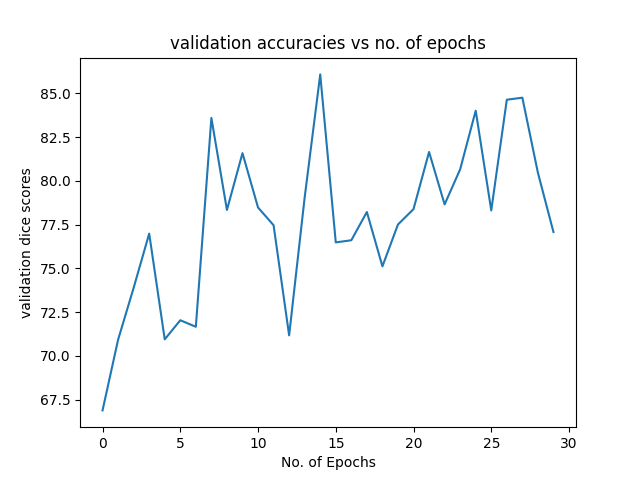
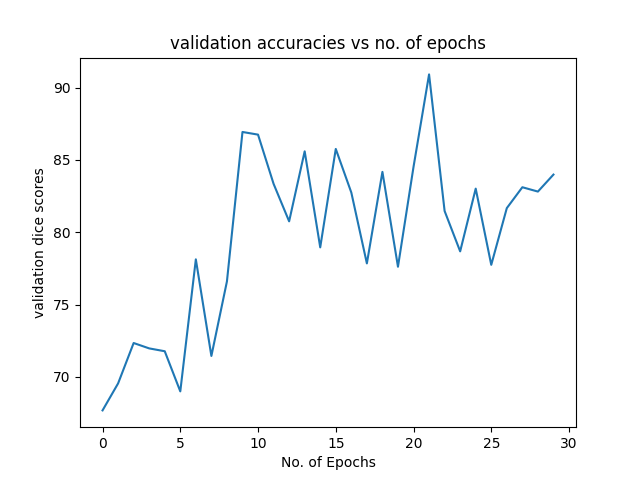
added attention unet

diff --git a/model.py b/model.py
@@ -25,6 +25,37 @@ class DoubleConv(nn.Module):
         return self.conv(x)
 
 
+
+class Attention_block(nn.Module):
+    def __init__(self,F_g,F_l,F_int):
+        super(Attention_block,self).__init__()
+        self.W_g = nn.Sequential(
+            nn.Conv2d(F_g, F_int, kernel_size=1,stride=1,padding=0,bias=True),
+            nn.BatchNorm2d(F_int)
+            )
+        
+        self.W_x = nn.Sequential(
+            nn.Conv2d(F_l, F_int, kernel_size=1,stride=1,padding=0,bias=True),
+            nn.BatchNorm2d(F_int)
+        )
+
+        self.psi = nn.Sequential(
+            nn.Conv2d(F_int, 1, kernel_size=1,stride=1,padding=0,bias=True),
+            nn.BatchNorm2d(1),
+            nn.Sigmoid()
+        )
+        
+        self.relu = nn.ReLU(inplace=True)
+        
+    def forward(self,g,x):
+        g1 = self.W_g(g)
+        x1 = self.W_x(x)
+        psi = self.relu(g1+x1)
+        psi = self.psi(psi)
+
+        return x*psi
+
+
 class UNET(nn.Module):
     def __init__(
             self, in_channels=3, out_channels=1, features=[64, 128, 256, 512],
@@ -44,11 +75,14 @@ class UNET(nn.Module):
 
         # Up part of UNET
         for feature in reversed(features):
+            ### up convolution
             self.ups.append(
                 nn.ConvTranspose2d(
                     feature*2, feature, kernel_size=2, stride=2,
                 )
             )
+
+            ### double convolution
             self.ups.append(DoubleConv(feature*2, feature))
 
         self.bottleneck = DoubleConv(features[-1], features[-1]*2)
@@ -75,11 +109,83 @@ class UNET(nn.Module):
             if x.shape != skip_connection.shape:
                 x = TF.resize(x, size=skip_connection.shape[2:])
 
+
             #concatenating the skip connections with x
             concat_skip = torch.cat((skip_connection, x), dim=1)
 
             #passing the concatenated ouptut, to the double convolutional layers
             x = self.ups[idx+1](concat_skip)
+
+        return self.final_conv(x)
+
+
+class Attention_UNET(nn.Module):
+    def __init__(
+            self, in_channels=3, out_channels=1, features=[64, 128, 256, 512],
+    ):
+        super(UNET, self).__init__()
+        #module list for encoder layers
+        self.downs = nn.ModuleList()
+        #max pooling
+        self.pool = nn.MaxPool2d(kernel_size=2, stride=2)
+        #module list for the decoder layers
+        self.ups = nn.ModuleList()
+
+        # Down part of UNET
+        for feature in features:
+            self.downs.append(DoubleConv(in_channels, feature))
+            in_channels = feature
+
+        # Up part of UNET
+        for feature in reversed(features):
+            ### up convolution
+            self.ups.append(
+                nn.ConvTranspose2d(
+                    feature*2, feature, kernel_size=2, stride=2,
+                )
+            )
+
+            ### attention module
+            self.ups.append(
+                Attention_block(F_g=feature, F_l=feature, F_int=feature//2)
+            )
+
+            ### double convolution
+            self.ups.append(DoubleConv(feature*2, feature))
+
+        self.bottleneck = DoubleConv(features[-1], features[-1]*2)
+        self.final_conv = nn.Conv2d(features[0], out_channels, kernel_size=1)
+
+    def forward(self, x):
+        skip_connections = []
+
+        for down in self.downs:
+            x = down(x)
+            skip_connections.append(x)
+            x = self.pool(x)
+
+        x = self.bottleneck(x)
+        #reversing the list of the skip connections
+        skip_connections = skip_connections[::-1]
+
+        for idx in range(0, len(self.ups), 3):
+            x = self.ups[idx](x)
+            skip_connection = skip_connections[idx//3]
+            
+            #if the resolution of the input image is not completely devisible, then it will skip the reminder
+            # and the resolution will not be equal in this case, so we are resizing it incase in they are not equal
+            if x.shape != skip_connection.shape:
+                x = TF.resize(x, size=skip_connection.shape[2:])
+
+
+            #Attention module 
+            Attention_output = self.ups[idx+1](g= x , x=skip_connection)
+
+            #concatenating the skip connections with x
+            concat_skip = torch.cat((Attention_output, x), dim=1)
+
+            #passing the concatenated ouptut, to the double convolutional layers
+            x = self.ups[idx+2](concat_skip)
 
         return self.final_conv(x)
 

diff --git a/train.py b/train.py
@@ -6,7 +6,7 @@ from model import UNET
 import numpy as np
 
 
-from utils import get_loaders, check_accuracy,  train_fn, plot_graph, check_test_accuracy
+from utils import get_loaders, Fit
 from focal_loss import FocalLoss
 
 import os
@@ -24,14 +24,11 @@ TEST_IMG_DIR = "./test/test2018/"
 TEST_MASK_DIR = "./test/mask/"
 
 
+
+
 def main():
 
-    train_accuracies = []
-    validation_accuracies = []
-    train_dice_scores = []
-    validation_dice_scores = []
-    train_losses = []
-    epochs = np.arange(0, NUM_EPOCHS, 1).tolist()
+    
 
     train_images_transform = t.Compose(
         [
@@ -71,86 +68,9 @@ def main():
     loss_fn = nn.BCEWithLogitsLoss()
     optimizer = optim.Adam(model.parameters(), lr=LEARNING_RATE)
 
-    print("Training started ::: **************** ")
-    for epoch in range(NUM_EPOCHS):
-        print("\nEpoch: ", epoch)
-        train_loss = train_fn(
-            loader=train_dl,
-            model=model,
-            optimizer=optimizer,
-            loss_fn=loss_fn,
-            device=DEVICE,
-        )
-        ## Training accuracy
-        train_accuracy, train_ds = check_accuracy(
-            loader=train_dl,
-            model=model,
-            device=DEVICE,
-            validation= False,
-        )
-
-        ## Validation accuracy
-        validation_accuracy, validation_ds = check_accuracy(
-            loader=train_dl,
-            model=model,
-            device=DEVICE,
-            validation= True,
-        )
-        
-        train_accuracies.append(train_accuracy)
-        validation_accuracies.append(validation_accuracy)
-
-        train_dice_scores.append(train_ds)
-        validation_dice_scores.append(validation_ds)
-
-        train_losses.append(train_loss)
-
-
+    Fit(model=model,train_dl=train_dl, test_dl=test_dl, loss_fn=loss_fn, optimizer=optimizer, epochs=NUM_EPOCHS, device=DEVICE)
     
     print("Done")
-
-    check_test_accuracy(
-        loader= test_dl,
-        model=model,
-        device=DEVICE,
-    )
-
-    plot_graph(
-            x=epochs,
-            y=train_losses,
-            x_label= "No. of Epochs",
-            y_label= "Train Losses",
-            title= "Training losses vs no. of epochs",
-        )
-
-    plot_graph(
-            x=epochs,
-            y=train_accuracies,
-            x_label= "No. of Epochs",
-            y_label= "Train Accuracies",
-            title= "Training accuracies vs no. of epochs",
-        )
-    plot_graph(
-            x=epochs,
-            y= train_dice_scores,
-            x_label= "No. of Epochs",
-            y_label= "Training dice scores",
-            title= "Training dice scores vs no. of epochs",
-        )
-    plot_graph(
-            x=epochs,
-            y= validation_accuracies,
-            x_label= "No. of Epochs",
-            y_label= "validation dice scores",
-            title= "validation accuracies vs no. of epochs",
-        )
-    plot_graph(
-            x=epochs,
-            y= validation_dice_scores,
-            x_label= "No. of Epochs",
-            y_label= "validation dice scores",
-            title="validation dice scores vs no. of epochs",
-        )
 
 if __name__ == "__main__":
     main()

diff --git a/utils.py b/utils.py
@@ -2,7 +2,7 @@ import torch
 from dataset import Teeth_Dataset
 from torch.utils.data import DataLoader
 import matplotlib.pyplot as plt
-
+import numpy as np
 
 
 def get_loaders(
@@ -172,4 +172,97 @@ def check_test_accuracy(loader, model, device="cuda"):
         print(f"Dice score: {dice_score :.2f}")
 
 
+
+def Fit(model, train_dl, test_dl, loss_fn, optimizer, epochs, device):
+    train_accuracies = []
+    validation_accuracies = []
+    train_dice_scores = []
+    validation_dice_scores = []
+    train_losses = []
+    epochs_list = np.arange(0, epochs, 1).tolist()
+
+        
+    print("Training started ::: **************** ")
+    for epoch in range(epochs):
+        print("\nEpoch: ", epoch)
+        train_loss = train_fn(
+            loader=train_dl,
+            model=model,
+            optimizer=optimizer,
+            loss_fn=loss_fn,
+            device=device,
+        )
+
+        ## Training accuracy
+        train_accuracy, train_ds = check_accuracy(
+            loader=train_dl,
+            model=model,
+            device=device,
+            validation= False,
+        )
+
+        ## Validation accuracy
+        validation_accuracy, validation_ds = check_accuracy(
+            loader=train_dl,
+            model=model,
+            device=device,
+            validation= True,
+        )
+        
+        train_accuracies.append(train_accuracy)
+        validation_accuracies.append(validation_accuracy)
+
+        train_dice_scores.append(train_ds)
+        validation_dice_scores.append(validation_ds)
+
+        train_losses.append(train_loss)
+
+
     
+    print("Done")
+
+    check_test_accuracy(
+        loader= test_dl,
+        model=model,
+        device=device,
+    )
+
+    plot_graph(
+        x=epochs_list,
+        y=train_losses,
+        x_label= "No. of Epochs",
+        y_label= "Train Losses",
+        title= "Training losses vs no. of epochs",
+    )
+
+    plot_graph(
+        x=epochs_list,
+        y=train_accuracies,
+        x_label= "No. of Epochs",
+        y_label= "Train Accuracies",
+        title= "Training accuracies vs no. of epochs",
+    )
+
+    plot_graph(
+        x=epochs_list,
+        y= train_dice_scores,
+        x_label= "No. of Epochs",
+        y_label= "Training dice scores",
+        title= "Training dice scores vs no. of epochs",
+    )
+
+    plot_graph(
+        x=epochs_list,
+        y= validation_accuracies,
+        x_label= "No. of Epochs",
+        y_label= "validation dice scores",
+        title= "validation accuracies vs no. of epochs",
+    )
+
+    plot_graph(
+        x=epochs_list,
+        y= validation_dice_scores,
+        x_label= "No. of Epochs",
+        y_label= "validation dice scores",
+        title="validation dice scores vs no. of epochs",
+    )
